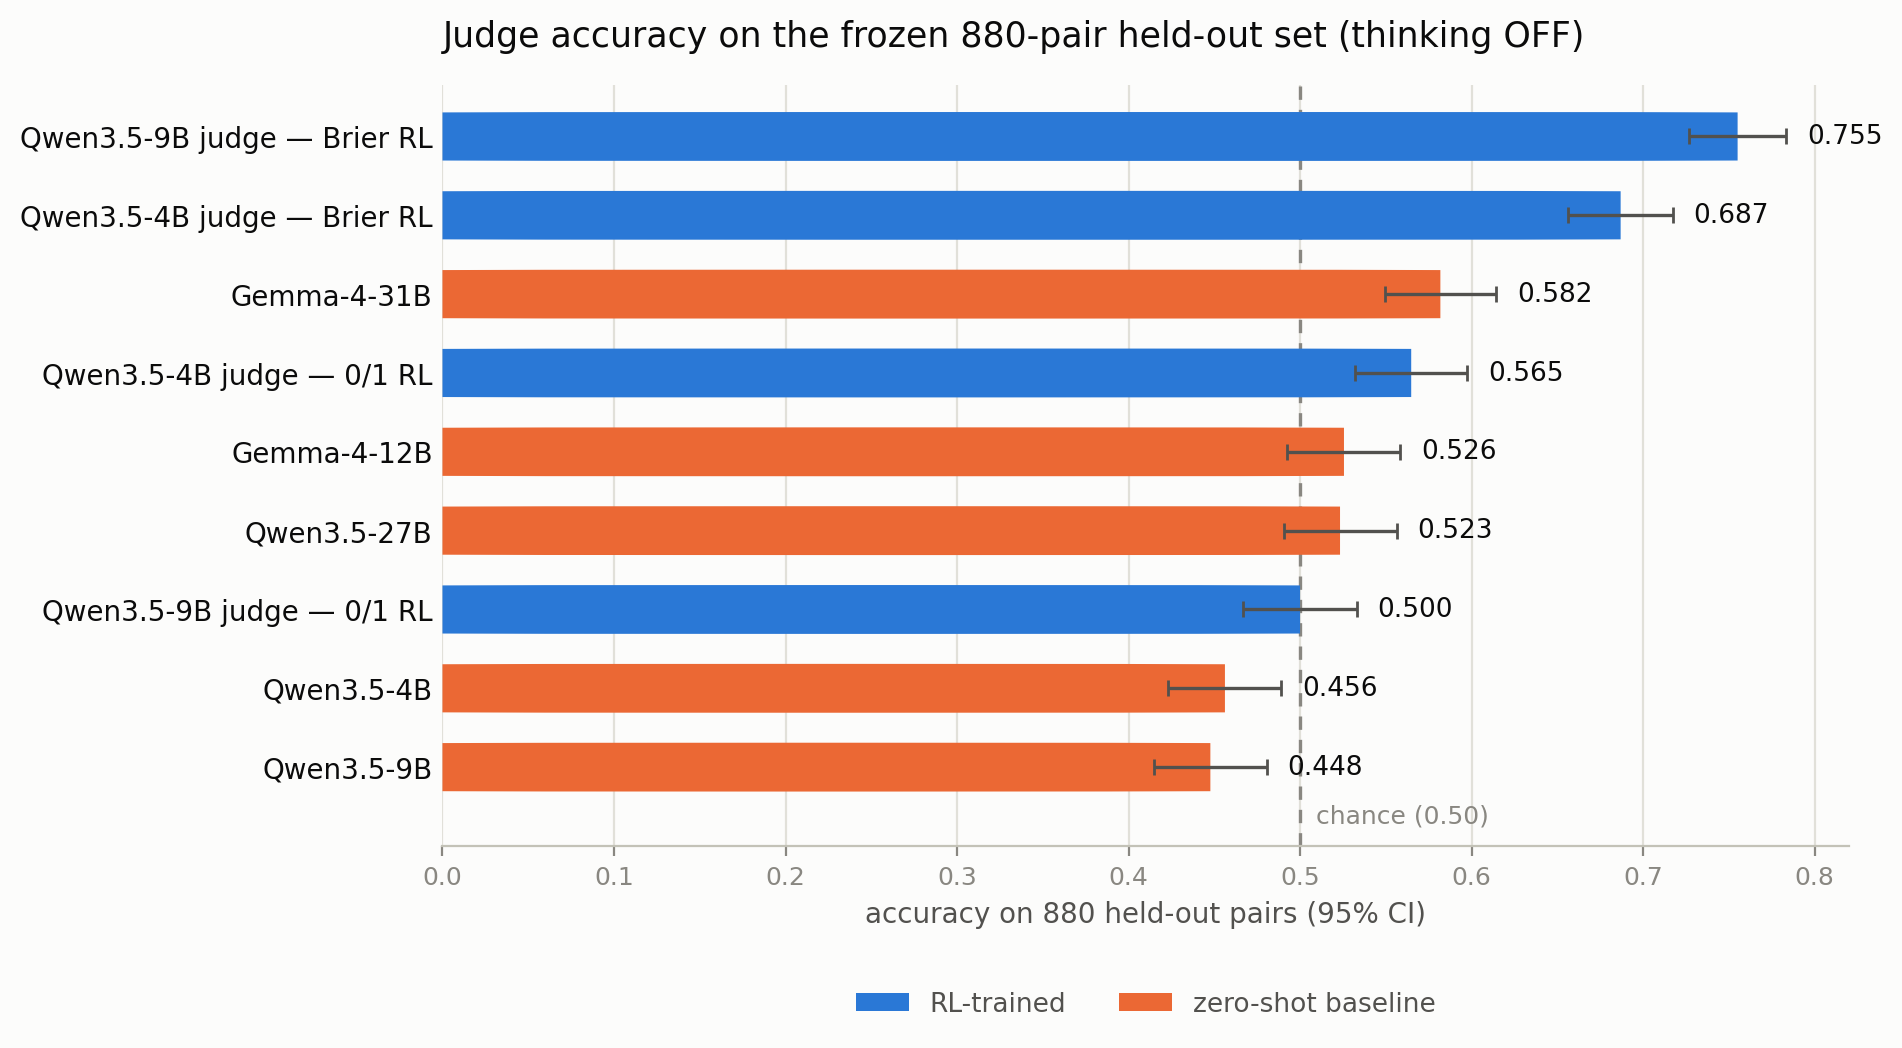
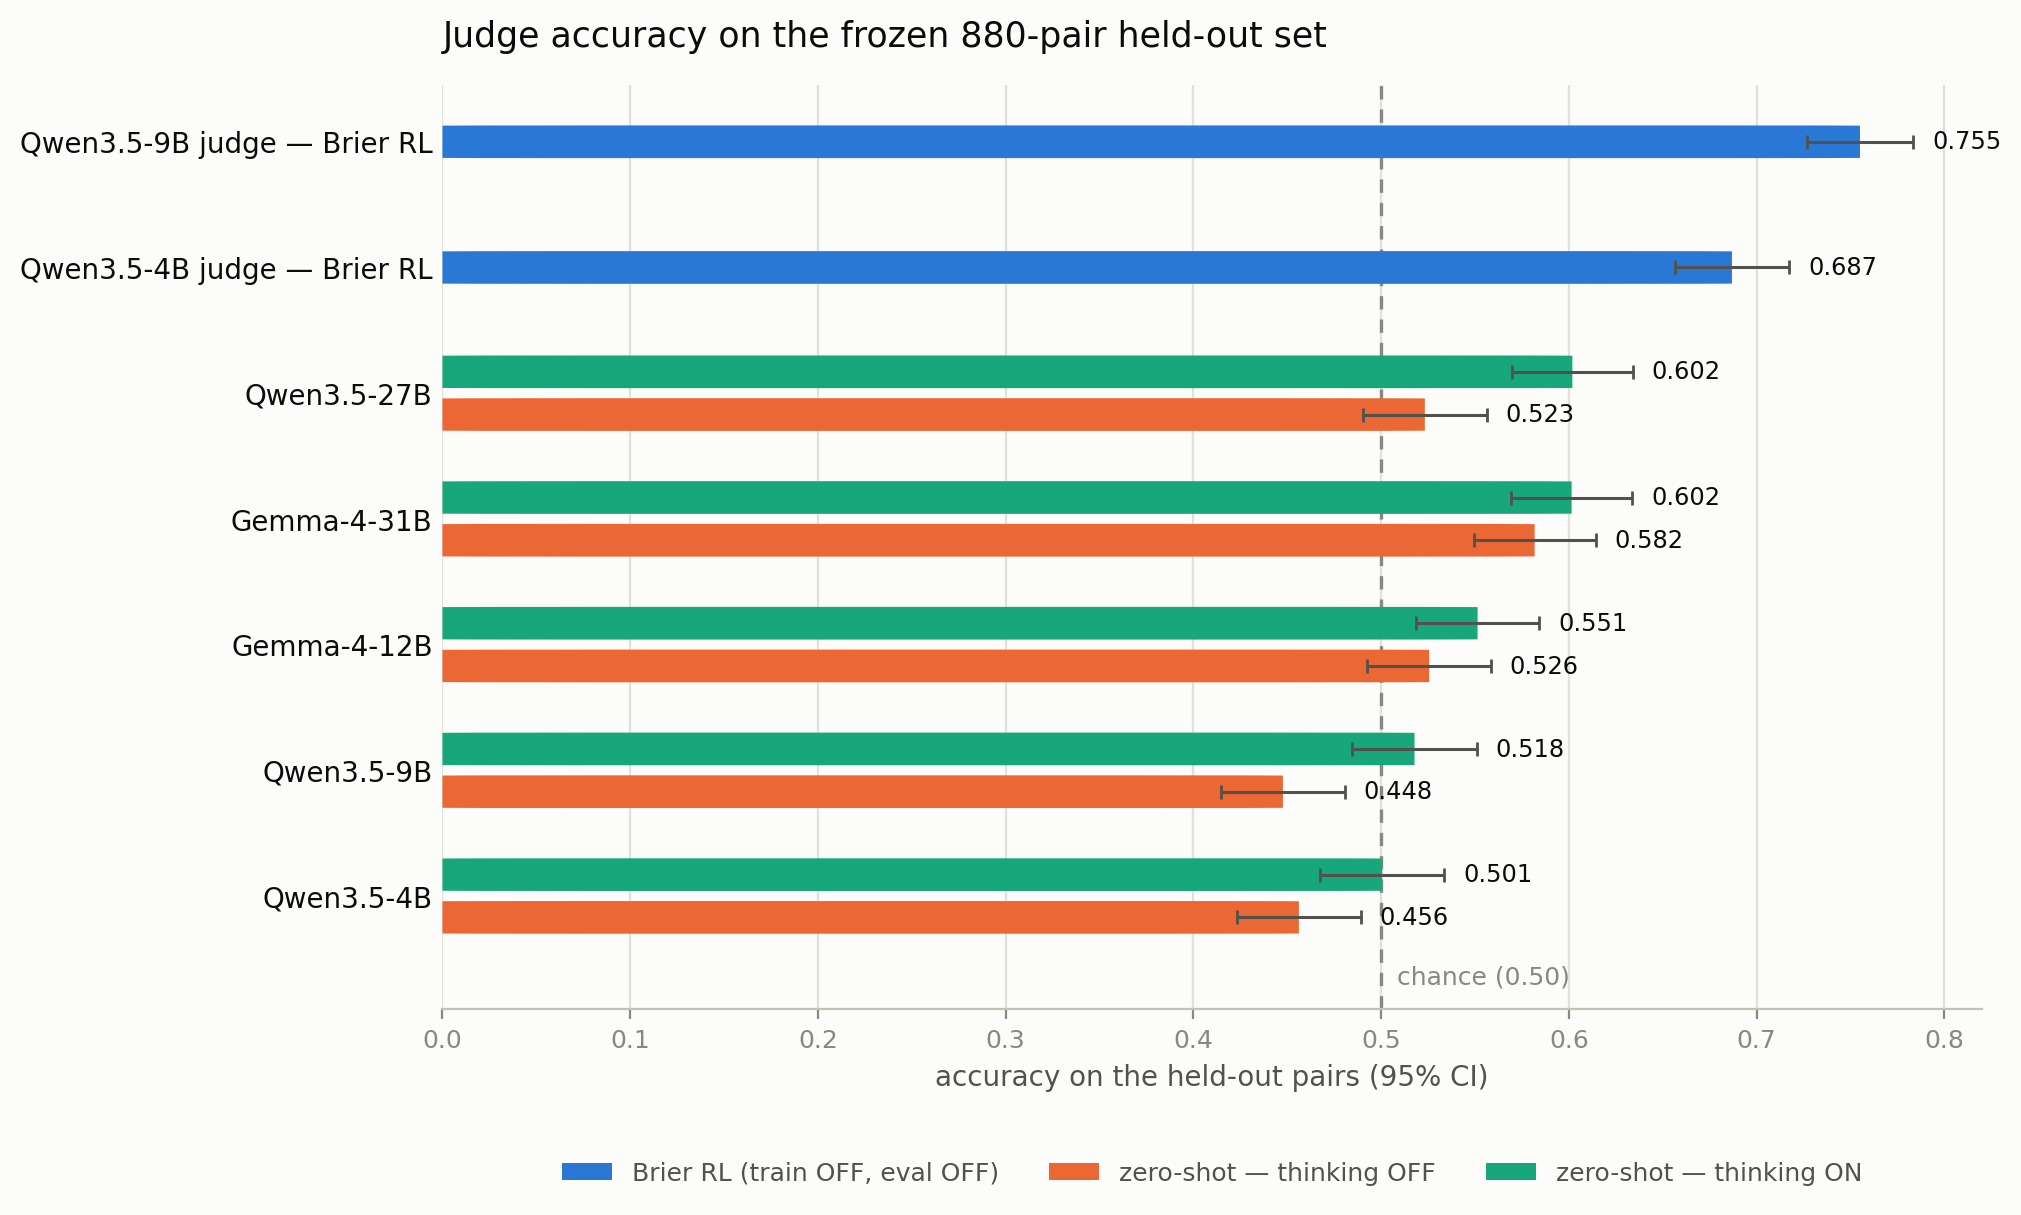
results: compare zero-shot judge thinking modes

diff --git a/results/2026-08-19-judge-only-rlvr-thinking-off-eval/plot/plot_judge_eval.py b/results/2026-08-19-judge-only-rlvr-thinking-off-eval/plot/plot_judge_eval.py
@@ -1,4 +1,4 @@
-"""Render the judge-accuracy bar plot from the retained summary CSV."""
+"""Render Brier-RL judges and paired zero-shot thinking modes."""
 from __future__ import annotations
 
 import argparse
@@ -12,7 +12,8 @@ import matplotlib.pyplot as plt
 from matplotlib.patches import FancyBboxPatch, Patch
 
 SERIES_RL = "#2a78d6"
-SERIES_ZS = "#eb6834"
+SERIES_ZS_OFF = "#eb6834"
+SERIES_ZS_ON = "#18a77b"
 SURFACE = "#fcfcfb"
 INK_PRIMARY = "#0b0b0b"
 INK_SECONDARY = "#52514e"
@@ -22,9 +23,7 @@ AXIS = "#c3c2b7"
 
 DISPLAY = {
     "judge-9b-graded-step52": "Qwen3.5-9B judge — Brier RL",
-    "judge-9b-directional-step52": "Qwen3.5-9B judge — 0/1 RL",
     "judge-4b-graded-step52": "Qwen3.5-4B judge — Brier RL",
-    "judge-4b-directional-step52": "Qwen3.5-4B judge — 0/1 RL",
     "qwen35-27b": "Qwen3.5-27B",
     "gemma4-31b": "Gemma-4-31B",
     "gemma4-12b": "Gemma-4-12B",
@@ -39,49 +38,61 @@ def load(path: Path) -> list[dict[str, object]]:
     for row in rows:
         row["accuracy"] = float(row["accuracy"])
         row["se"] = float(row["se"])
-    return sorted(rows, key=lambda row: float(row["accuracy"]))
+    return rows
+
+
+def _colour(row: dict[str, object]) -> str:
+    if row["kind"] == "rl-trained":
+        return SERIES_RL
+    return SERIES_ZS_ON if row["thinking_mode"] == "on" else SERIES_ZS_OFF
 
 
 def render(rows: list[dict[str, object]], out: Path) -> None:
-    fig, ax = plt.subplots(figsize=(9.6, 5.4), dpi=200)
+    grouped: dict[str, list[dict[str, object]]] = {}
+    for row in rows:
+        grouped.setdefault(str(row["model"]), []).append(row)
+    models = sorted(grouped, key=lambda model: max(float(r["accuracy"]) for r in grouped[model]))
+
+    fig, ax = plt.subplots(figsize=(10.2, 6.2), dpi=200)
     fig.patch.set_facecolor(SURFACE)
     ax.set_facecolor(SURFACE)
-    height = 0.62
-    radius = height / 2.6
+    height = 0.26
+    offsets = {"off": -0.17, "on": 0.17}
 
-    for i, row in enumerate(rows):
-        accuracy = float(row["accuracy"])
-        se = float(row["se"])
-        colour = SERIES_RL if row["kind"] == "rl-trained" else SERIES_ZS
-        ax.add_patch(
-            FancyBboxPatch(
-                (0, i - height / 2), accuracy, height,
-                boxstyle=f"round,pad=0,rounding_size={radius}",
-                mutation_aspect=0.02, linewidth=0, facecolor=colour,
-                zorder=3, clip_on=False,
+    for i, model in enumerate(models):
+        model_rows = sorted(grouped[model], key=lambda row: str(row["thinking_mode"]))
+        for row in model_rows:
+            accuracy = float(row["accuracy"])
+            se = float(row["se"])
+            y = i if row["kind"] == "rl-trained" else i + offsets[str(row["thinking_mode"])]
+            ax.add_patch(
+                FancyBboxPatch(
+                    (0, y - height / 2), accuracy, height,
+                    boxstyle="round,pad=0,rounding_size=0.08",
+                    mutation_aspect=0.02, linewidth=0, facecolor=_colour(row),
+                    zorder=3, clip_on=False,
+                )
             )
-        )
-        ax.errorbar(
-            accuracy, i, xerr=1.96 * se, fmt="none", ecolor=INK_SECONDARY,
-            elinewidth=1.2, capsize=3, zorder=4,
-        )
-        ax.text(
-            accuracy + 1.96 * se + 0.012, i, f"{accuracy:.3f}",
-            va="center", ha="left", fontsize=9.5, color=INK_PRIMARY, zorder=5,
-        )
+            ax.errorbar(
+                accuracy, y, xerr=1.96 * se, fmt="none", ecolor=INK_SECONDARY,
+                elinewidth=1.1, capsize=2.5, zorder=4,
+            )
+            ax.text(
+                accuracy + 1.96 * se + 0.010, y, f"{accuracy:.3f}",
+                va="center", ha="left", fontsize=8.7, color=INK_PRIMARY, zorder=5,
+            )
 
     ax.axvline(0.5, color=INK_MUTED, linestyle=(0, (4, 3)), linewidth=1.2, zorder=2)
-    ax.text(0.5, -0.62, "  chance (0.50)", color=INK_MUTED, fontsize=9,
+    ax.text(0.5, -0.64, "  chance (0.50)", color=INK_MUTED, fontsize=9,
             va="center", ha="left")
-    ax.set_yticks(range(len(rows)))
-    ax.set_yticklabels([DISPLAY.get(str(row["model"]), str(row["model"])) for row in rows],
-                       fontsize=10)
+    ax.set_yticks(range(len(models)))
+    ax.set_yticklabels([DISPLAY.get(model, model) for model in models], fontsize=10)
     ax.set_xlim(0, 0.82)
-    ax.set_ylim(-1.0, len(rows) - 0.35)
-    ax.set_xlabel("accuracy on 880 held-out pairs (95% CI)", fontsize=10,
+    ax.set_ylim(-0.9, len(models) - 0.55)
+    ax.set_xlabel("accuracy on the held-out pairs (95% CI)", fontsize=10,
                   color=INK_SECONDARY)
     ax.set_title(
-        "Judge accuracy on the frozen 880-pair held-out set (thinking OFF)",
+        "Judge accuracy on the frozen 880-pair held-out set",
         fontsize=12.5, color=INK_PRIMARY, pad=14, loc="left",
     )
     ax.xaxis.grid(True, color=GRIDLINE, linewidth=0.8, zorder=0)
@@ -93,10 +104,13 @@ def render(rows: list[dict[str, object]], out: Path) -> None:
     ax.tick_params(axis="x", colors=INK_MUTED, labelsize=9)
     ax.tick_params(axis="y", length=0, colors=INK_PRIMARY)
     ax.legend(
-        handles=[Patch(facecolor=SERIES_RL, label="RL-trained"),
-                 Patch(facecolor=SERIES_ZS, label="zero-shot baseline")],
-        loc="upper center", bbox_to_anchor=(0.5, -0.16), ncol=2,
-        frameon=False, fontsize=9.5, labelcolor=INK_SECONDARY,
+        handles=[
+            Patch(facecolor=SERIES_RL, label="Brier RL (train OFF, eval OFF)"),
+            Patch(facecolor=SERIES_ZS_OFF, label="zero-shot — thinking OFF"),
+            Patch(facecolor=SERIES_ZS_ON, label="zero-shot — thinking ON"),
+        ],
+        loc="upper center", bbox_to_anchor=(0.5, -0.14), ncol=3,
+        frameon=False, fontsize=9, labelcolor=INK_SECONDARY,
     )
     fig.tight_layout()
     out.parent.mkdir(parents=True, exist_ok=True)
